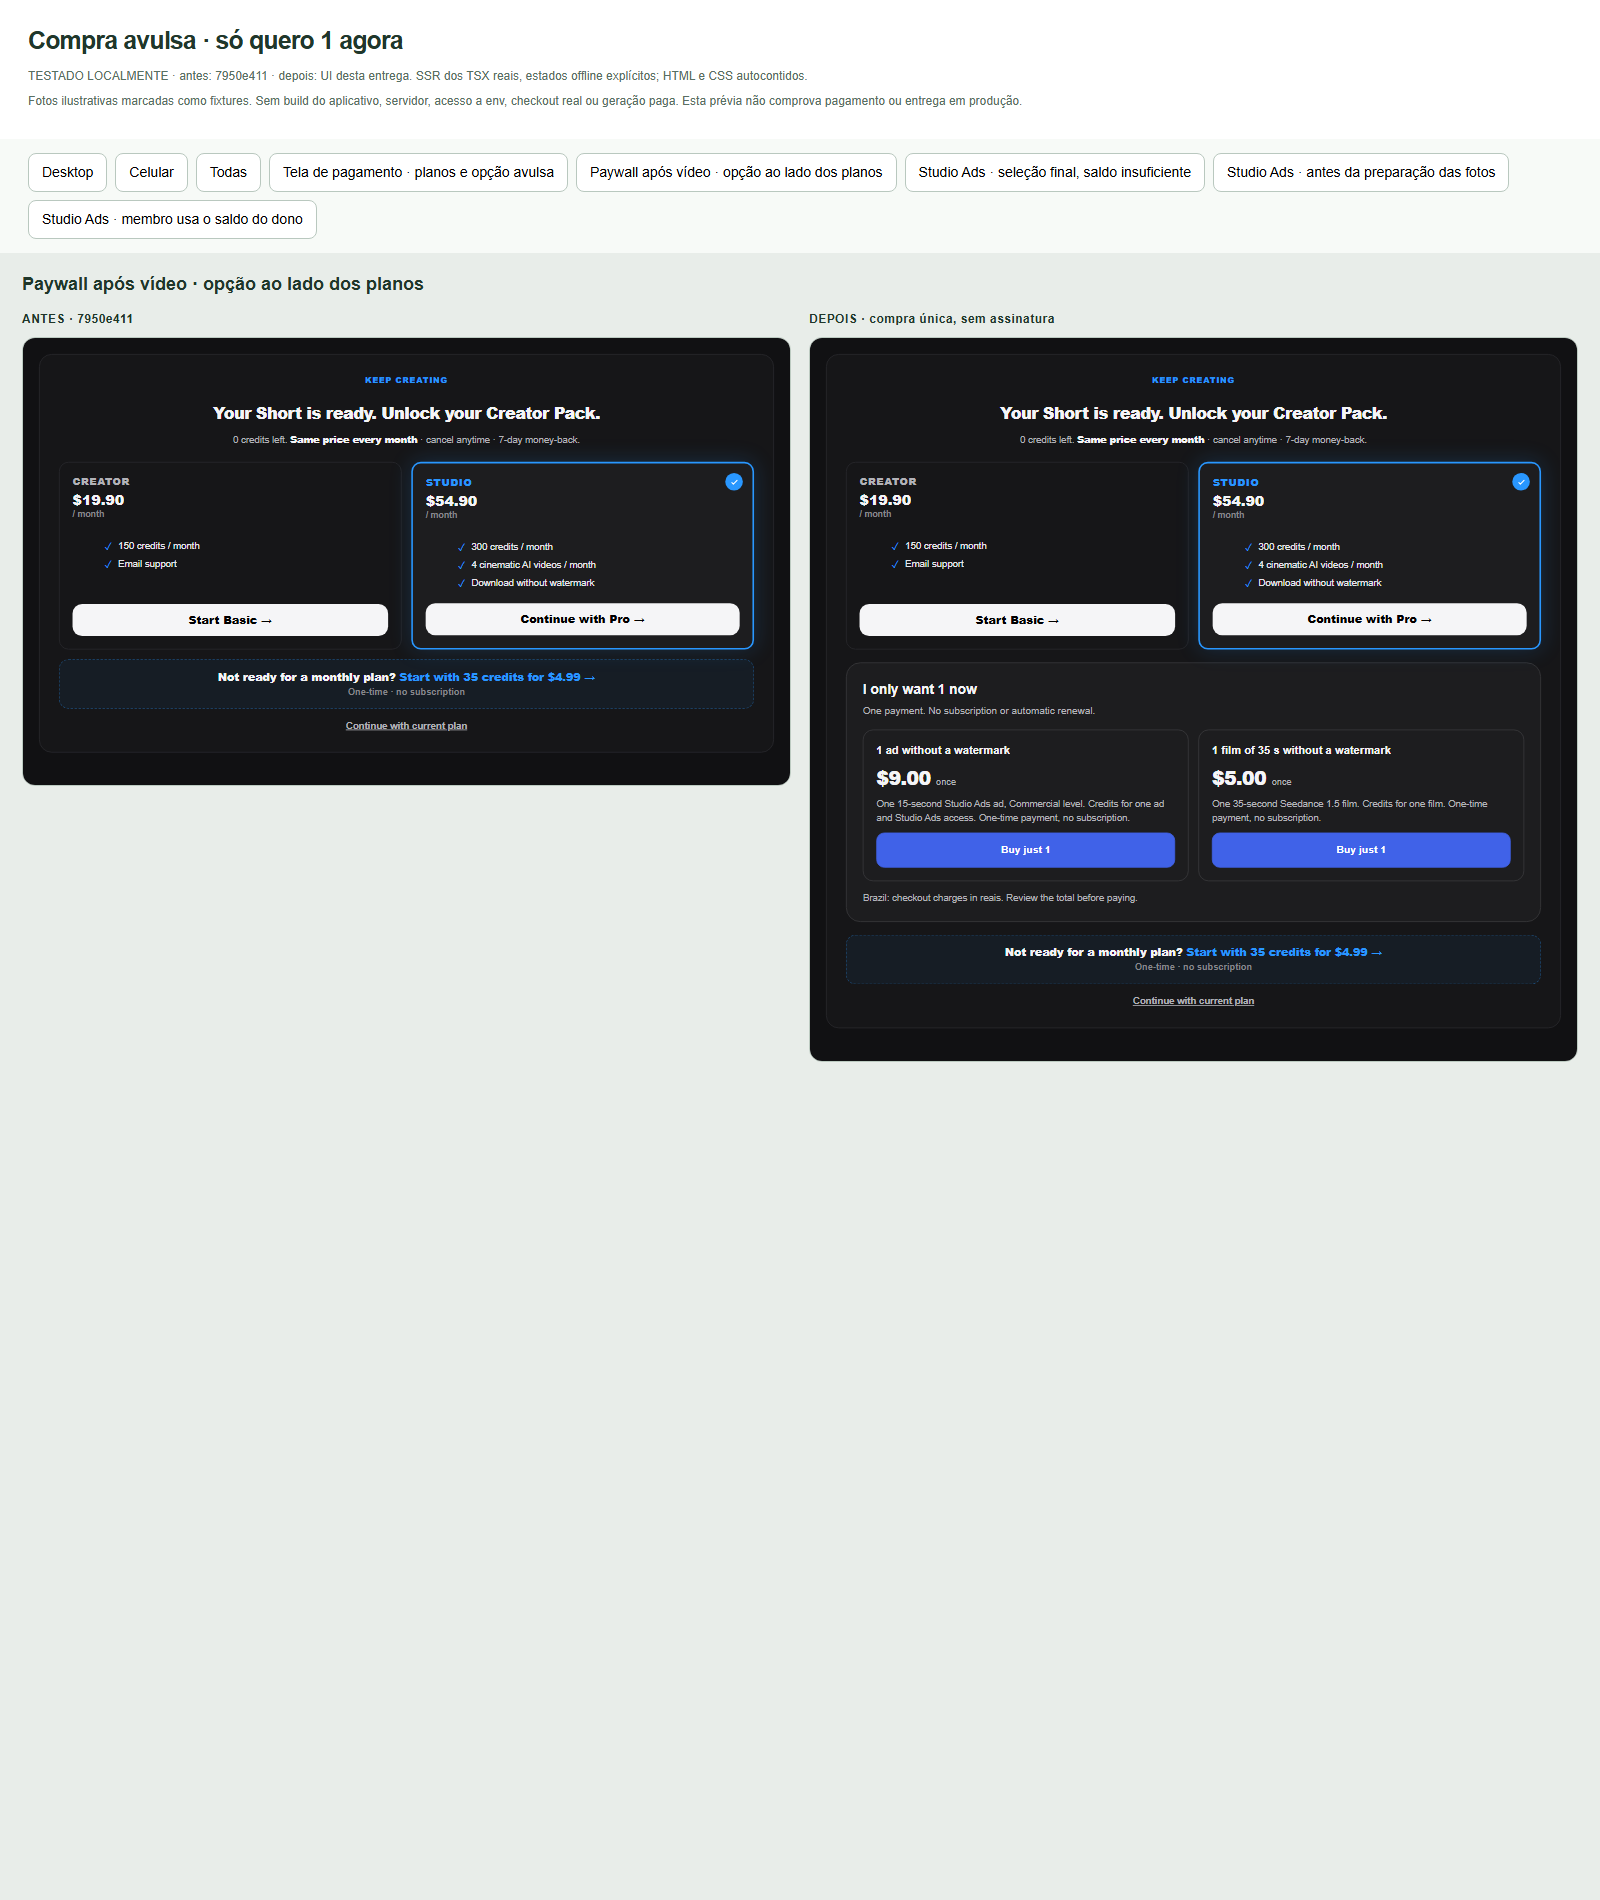
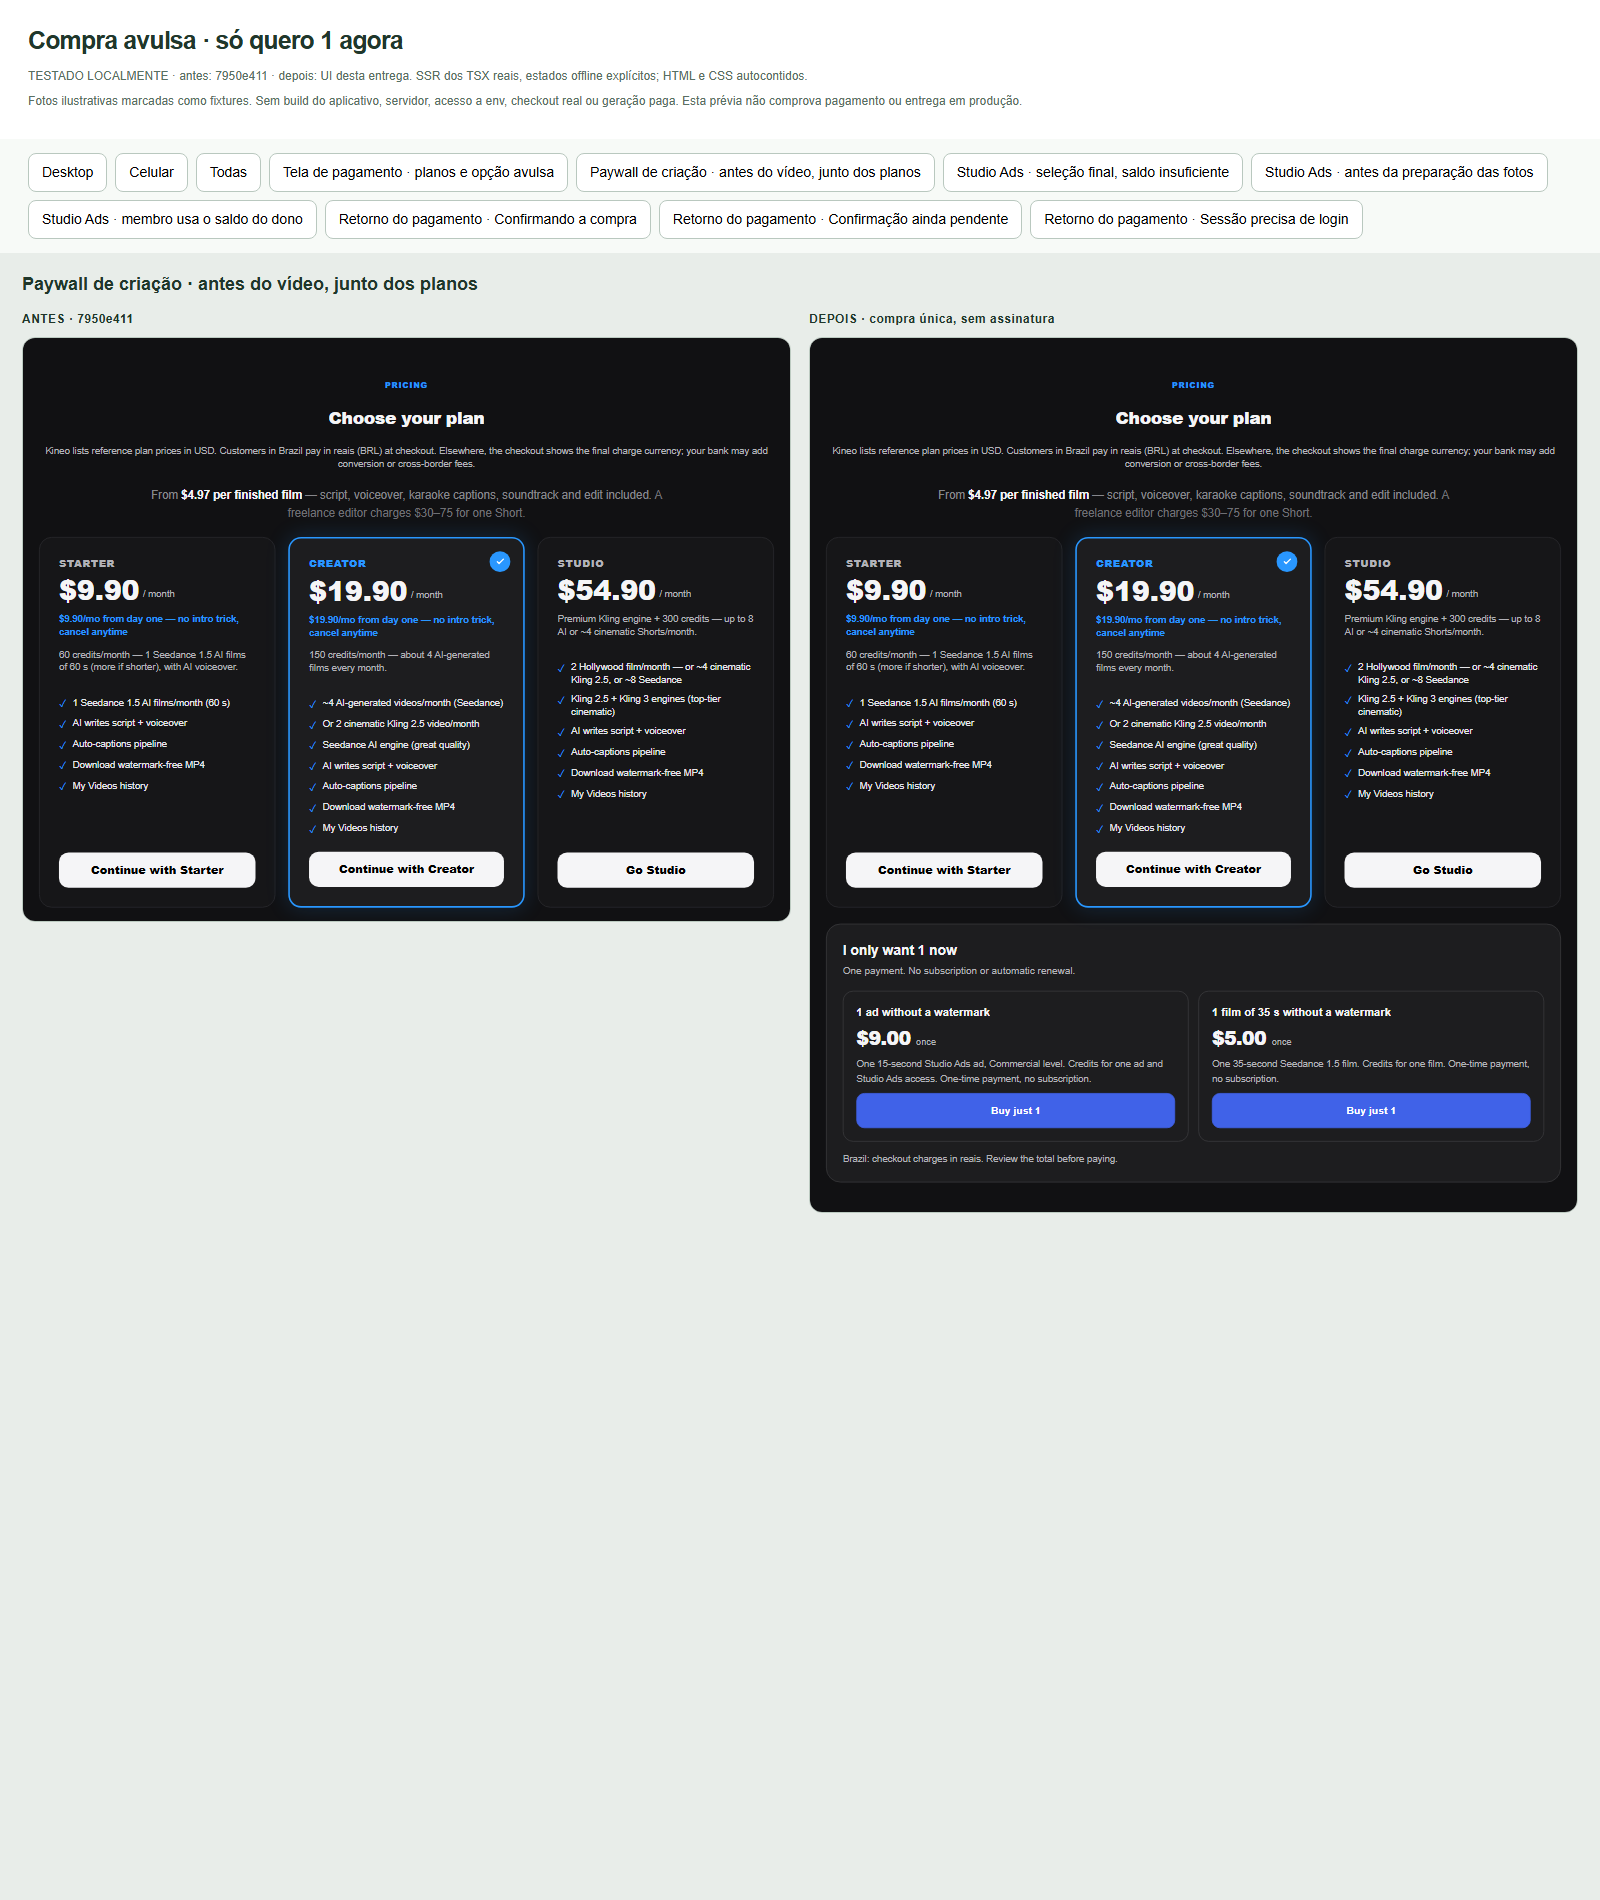
[TRAVA 8.2 — vai do fundador 24/10 "vamos fazer do 2 ao 5"] prende medição ao paywall ativo e atualiza prova visual

diff --git a/lib/oneTimeItem.ts b/lib/oneTimeItem.ts
@@ -8,14 +8,14 @@ import { settlementAmountMinor } from '@/lib/settlementCurrency'
 export const ONE_TIME_ITEMS_LIVE = true
 export const ONE_TIME_ITEM_VERSION = 'one_time_item_v1' as const
 export type OneTimeItemId = keyof typeof ONE_TIME_ITEM_USD_MINOR
-export type OneTimeItemSurface = 'pricing' | 'post_video_paywall' | 'ads_choice'
+export type OneTimeItemSurface = 'pricing' | 'generate_paywall' | 'ads_choice'
 export const ONE_TIME_ITEM_EVENTS = { viewed: 'one_time_item_viewed', started: 'checkout_started', purchased: 'one_time_item_purchased' } as const
 
 export function isOneTimeItemId(value: unknown): value is OneTimeItemId {
   return value === 'one_time_ad' || value === 'one_time_film35'
 }
 export function oneTimeItemSurface(value: unknown): OneTimeItemSurface {
-  return value === 'post_video_paywall' || value === 'ads_choice' ? value : 'pricing'
+  return value === 'generate_paywall' || value === 'ads_choice' ? value : 'pricing'
 }
 export function oneTimeItemOrderId(value: unknown): string | null {
   return typeof value === 'string' && /^[0-9a-f]{8}-[0-9a-f]{4}-[1-5][0-9a-f]{3}-[89ab][0-9a-f]{3}-[0-9a-f]{12}$/i.test(value) ? value.toLowerCase() : null

diff --git a/docs/qa/compra-avulsa-2410/ENTREGA.md b/docs/qa/compra-avulsa-2410/ENTREGA.md
@@ -10,7 +10,7 @@
 
 **IMPLEMENTADO — FATO CONFIRMADO:** webhook verifica assinatura antes de banco e trata tanto `checkout.session.completed` quanto `checkout.session.async_payment_succeeded`. Somente `payment_status: paid` concede o item. O ramo avulso precede o fallback legado, retoma eventos adquiridos antes de uma queda e mantém conversão do trial e comissão idempotente. O navegador não pode registrar `one_time_item_purchased` (`app/api/events/route.ts:24`).
 
-**IMPLEMENTADO — FATO CONFIRMADO:** opções ao lado dos planos em `app/pricing/PricingClient.tsx:1777` e `components/PostVideoPaywall.tsx:184`. Studio Ads oferece comprar antes das fotos e na seleção final quando o saldo não basta (`app/(dashboard)/ads/v2/AdsV2Escolha.tsx:183`); mantém pedido, fotos e seleção bloqueada pelo servidor. Pagamento abre em outra aba e o saldo é relido ao foco. Membro de equipe recebe orientação para o dono repor saldo, pois a cobrança do anúncio usa saldo do dono.
+**IMPLEMENTADO — FATO CONFIRMADO:** opções ao lado dos planos em `app/pricing/PricingClient.tsx:1777` e no paywall ativo `components/PricingCards.tsx:589`, montado por `app/(dashboard)/generate/GenerateClient.tsx:15874`. `PostVideoPaywall` não tem chamador no gerador e foi preservado exatamente como na base. Studio Ads oferece comprar antes das fotos e na seleção final quando o saldo não basta (`app/(dashboard)/ads/v2/AdsV2Escolha.tsx:183`); mantém pedido, fotos e seleção bloqueada pelo servidor. Pagamento abre em outra aba e o saldo é relido ao foco. Membro de equipe recebe orientação para o dono repor saldo, pois a cobrança do anúncio usa saldo do dono.
 
 **IMPLEMENTADO — FATO CONFIRMADO:** `/checkout/item` espera recibo do usuário autenticado e da sessão exata antes de abrir o Studio. Endpoint apenas de leitura, `private, no-store`, em `app/api/stripe/checkout/item/route.ts:9`; retorno antecipado da Stripe não concede, não abre outro pagamento e não manda a pessoa prematuramente para o paywall. Prazo de espera e nova consulta seguros em `components/OneTimeItemConfirmation.tsx:24`.
 
@@ -18,7 +18,7 @@
 
 **TESTADO LOCALMENTE — 24/10/2026:** guardiões próprios executam checkout real com SDK fake, declaração POST real do webhook, endpoint de retorno, componentes reais e SQL real em PostgreSQL/WASM. Casos incluem BRL/USD, URL adulterada, migration ausente, autenticação, pagamento pendente, falha de comissão após grant, replay, compra após gasto, falha com rollback integral, contrato futuro divergente, receipt de outro usuário, timeout e unmount. Mutantes comportamentais precisam ser mortos; PGlite usa um backend serializado e não prova concorrência de múltiplas conexões em produção. Node local v24.18.0 / TypeScript 5.9.3; CI declara Node 22.
 
-**TESTADO LOCALMENTE — baseline:** evidências em `baseline/BASELINE.md` e `baseline/results.json`, com rede e leitura de `.env` bloqueadas. A base já falha em Hindi (`test-locale-readiness.mjs`) e na expectativa antiga de USD mundial (`test-checkout-currency-truth.mjs`). A bateria candidata compara a assinatura exata desses erros e reprova qualquer vermelho adicional. Resultado final da bateria será anexado abaixo.
+**TESTADO LOCALMENTE — baseline:** evidências em `baseline/BASELINE.md` e `baseline/results.json`, com rede e leitura de `.env` bloqueadas. O guardião adicional do paywall ativo também passou na base (`baseline/extra-inline-pricing-decision-funnel.log`). A base já falha em Hindi (`test-locale-readiness.mjs`) e na expectativa antiga de USD mundial (`test-checkout-currency-truth.mjs`). A bateria candidata compara a assinatura exata desses erros e reprova qualquer vermelho adicional. Resultado final da bateria será anexado abaixo.
 
 **TESTADO LOCALMENTE — comparação e desfaz:** `docs/previews/COMPRA-AVULSA-2410.html` contém oito pares desktop/mobile, renderizados dos TSX reais offline, com PNGs adjacentes. O helper folha `scripts/test-support/desfaz-compra-avulsa-2410.mjs` restaura cada fonte existente exatamente à base, verifica hashes e hunks, preserva LF/CRLF e rejeita adulteração. O guardião confere todo o inventário; manifestos e SHAs históricos continuam preservados. O gerador desta camada nunca reancora manifestos de tarefas anteriores.
 
